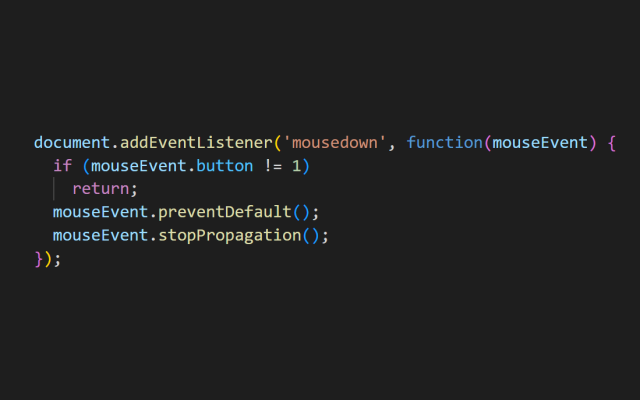
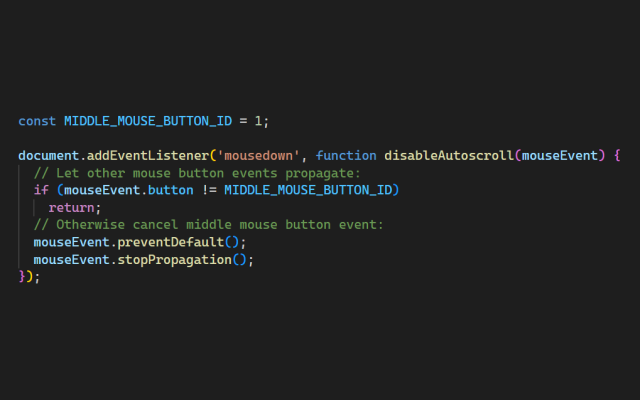
Added iframe support!

Changed region(s): [[0.0312, 0.27, 0.9688, 0.72]]

diff --git a/disable-autoscroll-webextension/index.js b/disable-autoscroll-webextension/index.js
@@ -1,6 +1,10 @@
-document.addEventListener('mousedown', function(mouseEvent) {
-  if (mouseEvent.button != 1)
-    return;
+const MIDDLE_MOUSE_BUTTON_ID = 1;
+
+document.addEventListener('mousedown', function disableAutoscroll(mouseEvent) {
+  // Let other mouse button events propagate:
+  if (mouseEvent.button != MIDDLE_MOUSE_BUTTON_ID)
+    return; 
+  // Otherwise cancel middle mouse button event:
   mouseEvent.preventDefault();
   mouseEvent.stopPropagation();
 });
